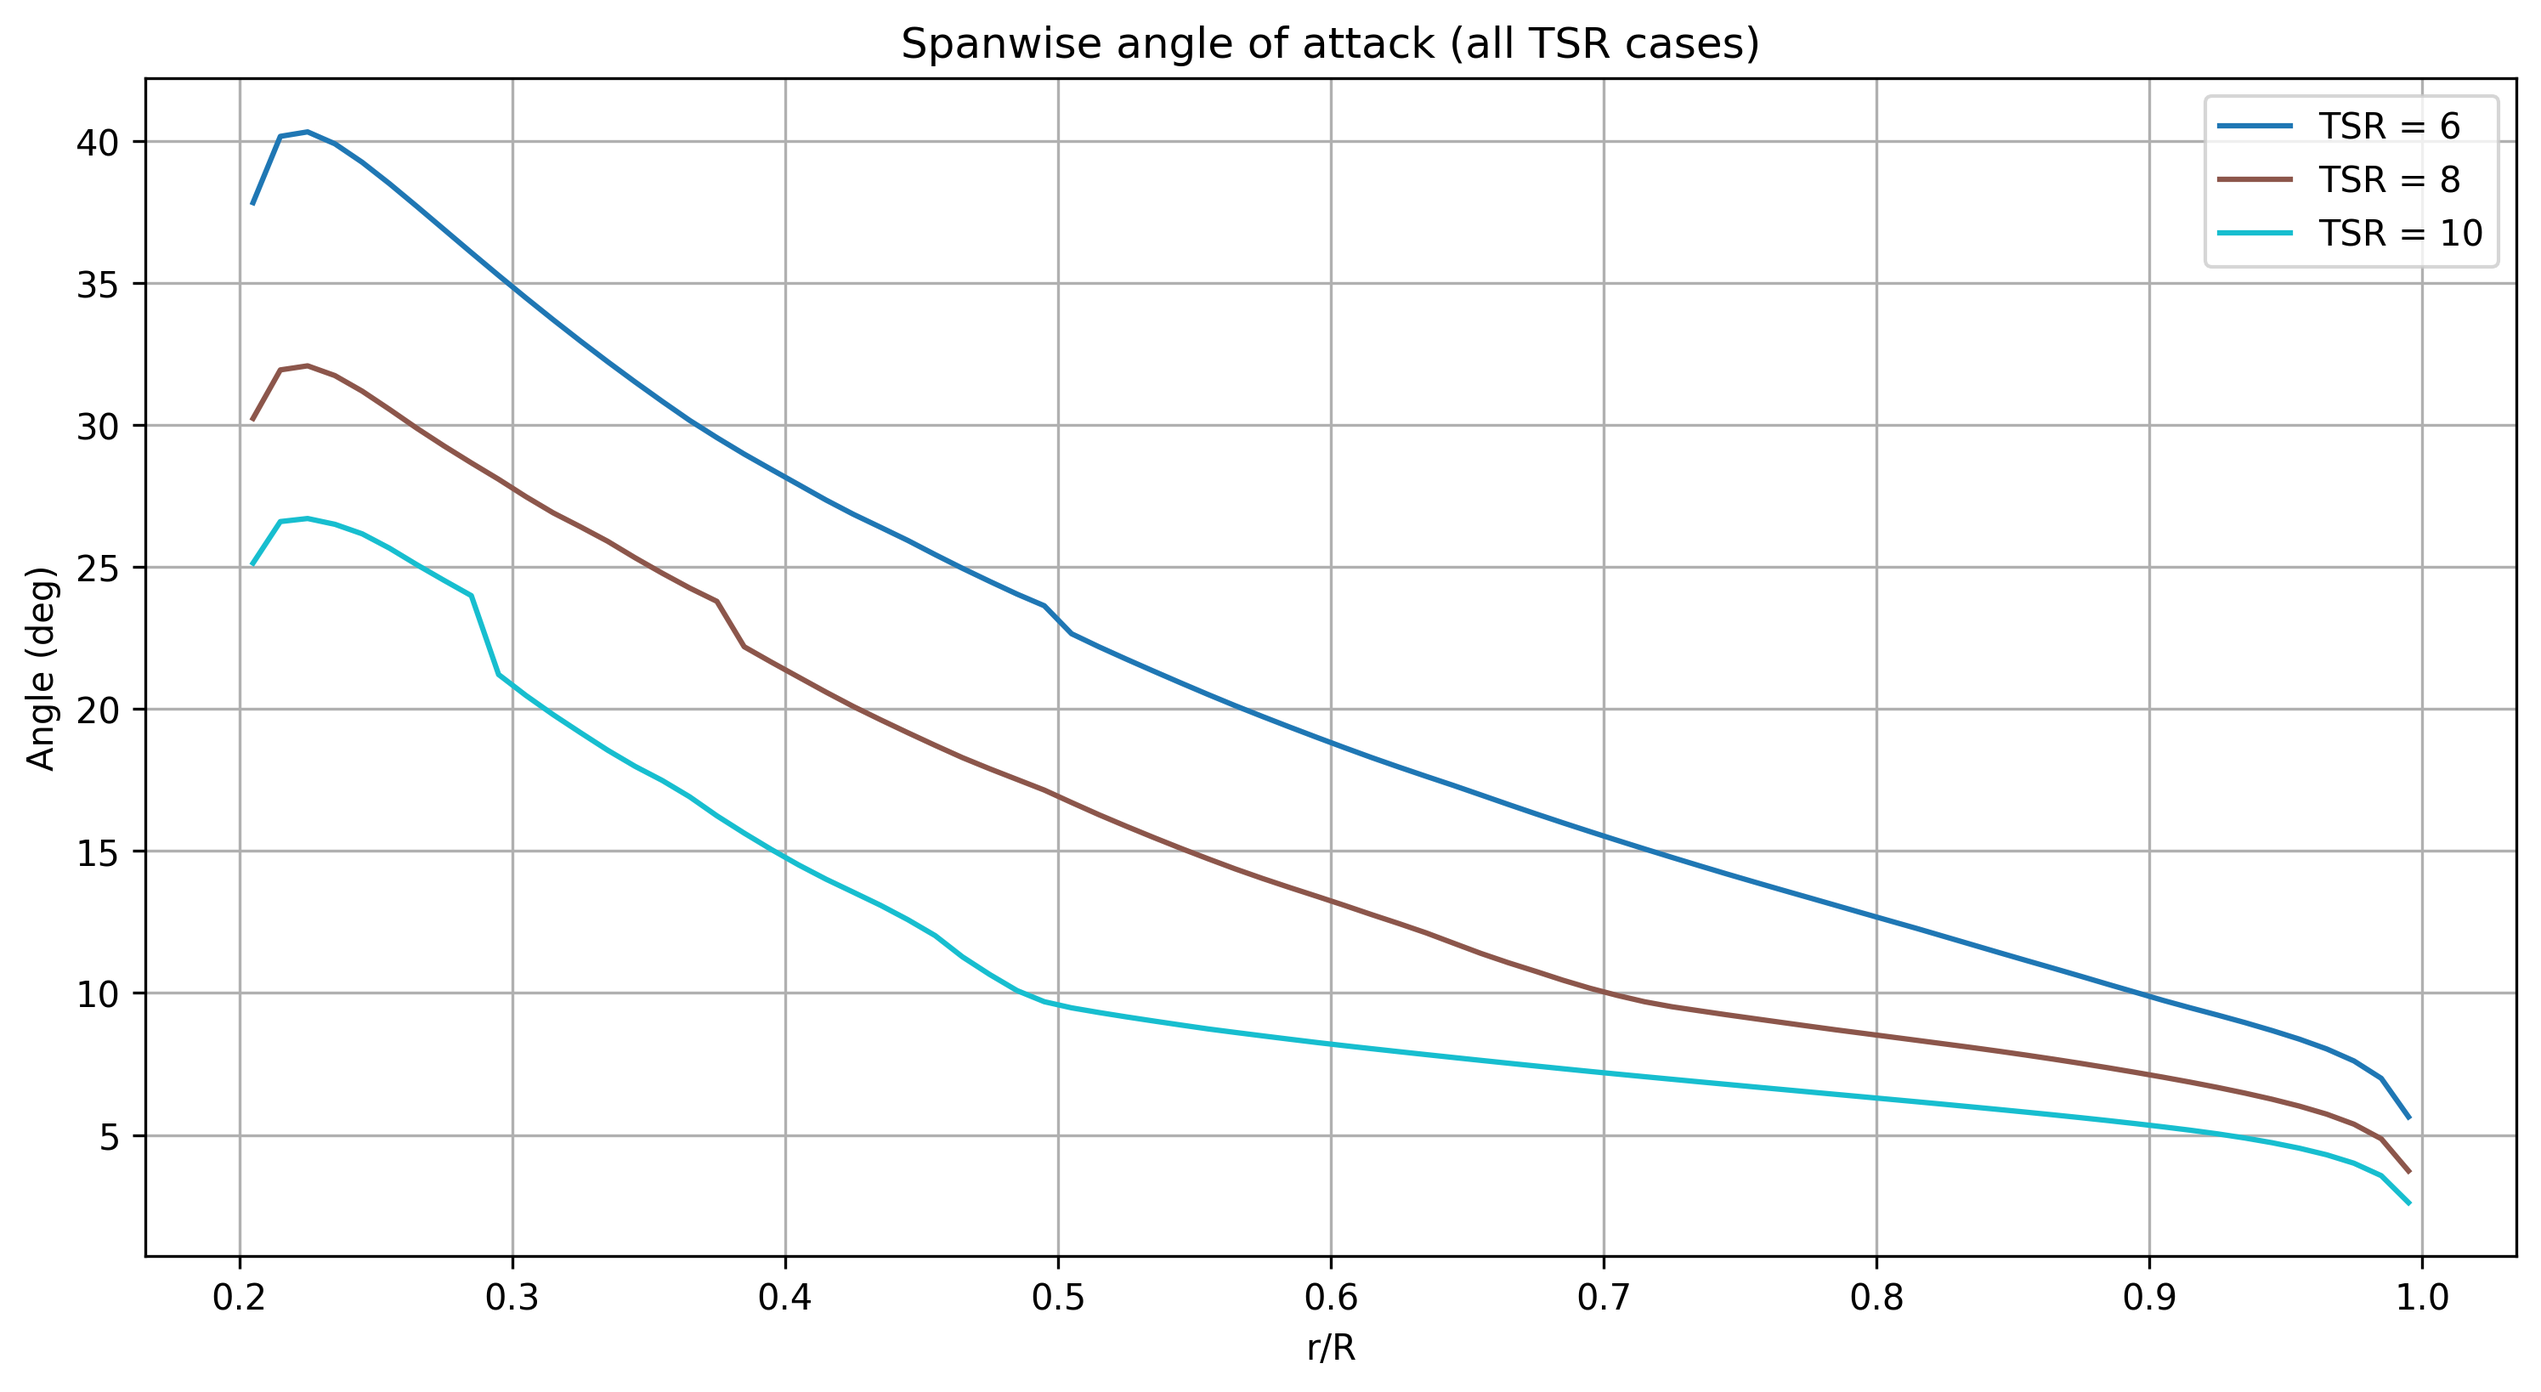
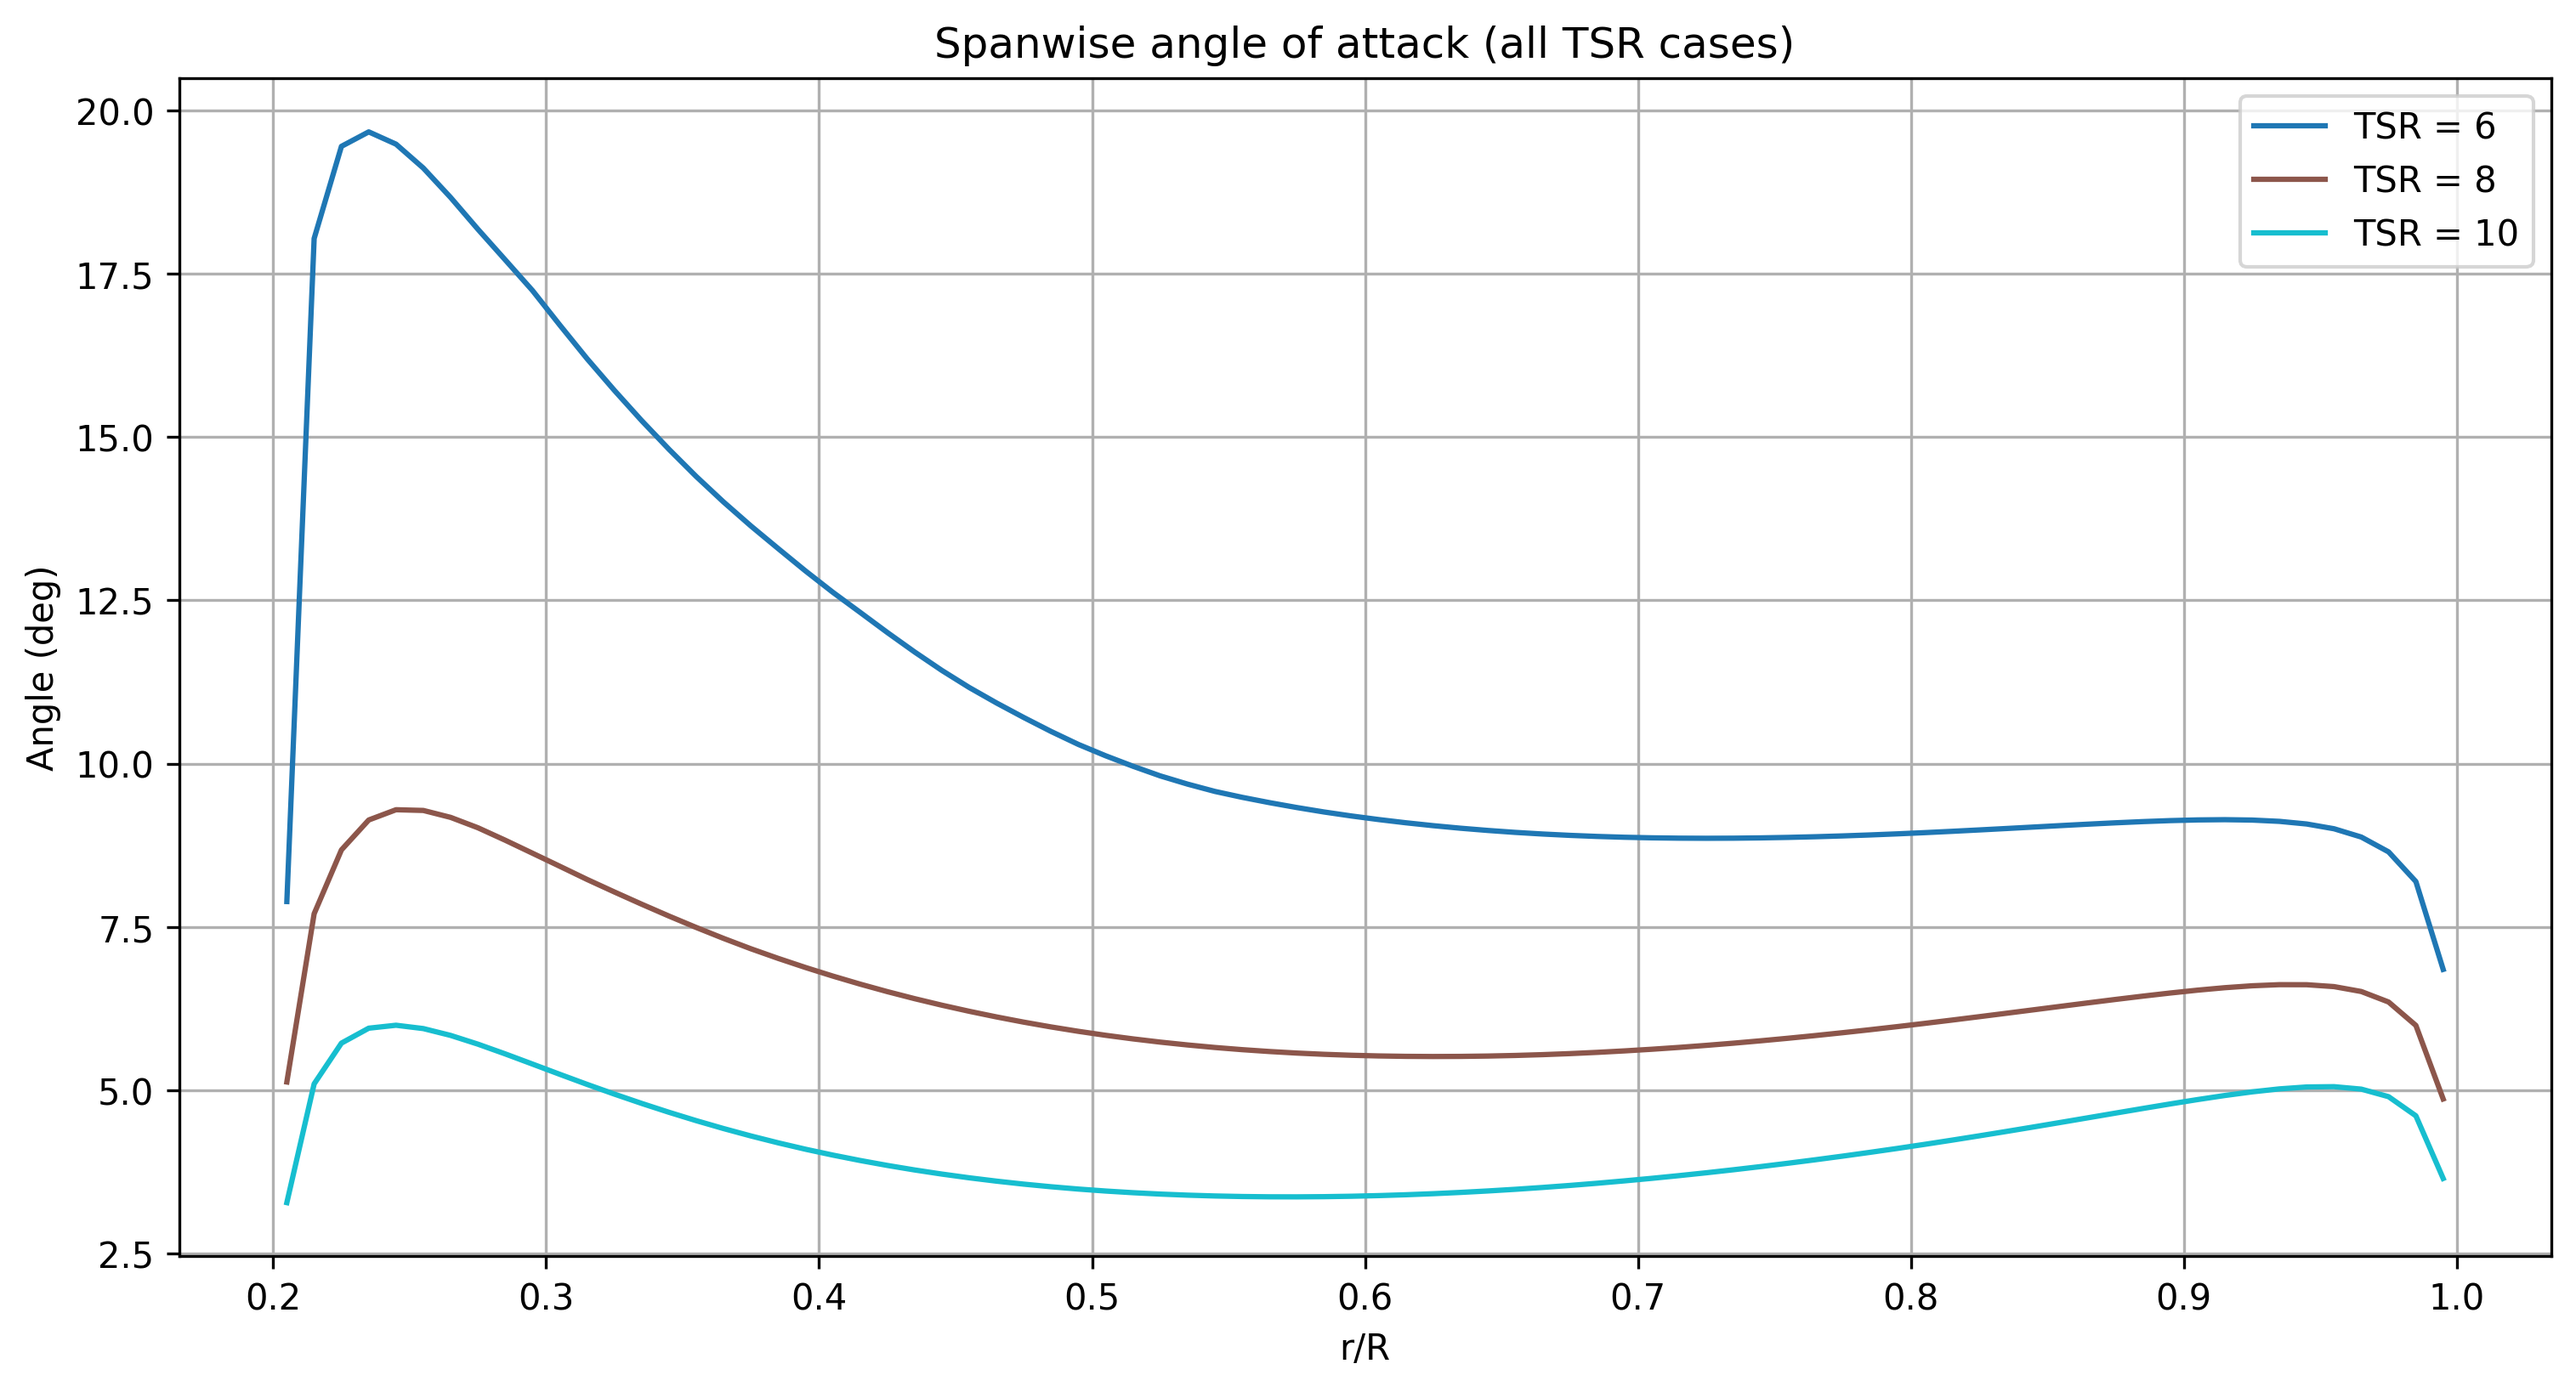
blade pitch erin!

diff --git a/BEM_TG2303.py b/BEM_TG2303.py
@@ -179,7 +179,9 @@ def loadBladeElement(vnorm, vtan, r_R, chord, twist, polar_alpha, polar_cl, pola
     vmag2 = vnorm**2 + vtan**2
     inflowangle = np.arctan2(vnorm,vtan)
     inflowangle_deg = inflowangle * 180/np.pi
-    alpha = twist + inflowangle_deg
+    # Angle convention from lecture: alpha = phi - beta, with beta = twist + pitch.
+    beta = twist + blade_pitch
+    alpha = inflowangle_deg - beta
     cl = np.interp(alpha, polar_alpha, polar_cl)
     cd = np.interp(alpha, polar_alpha, polar_cd)
     lift = 0.5*vmag2*cl*chord
